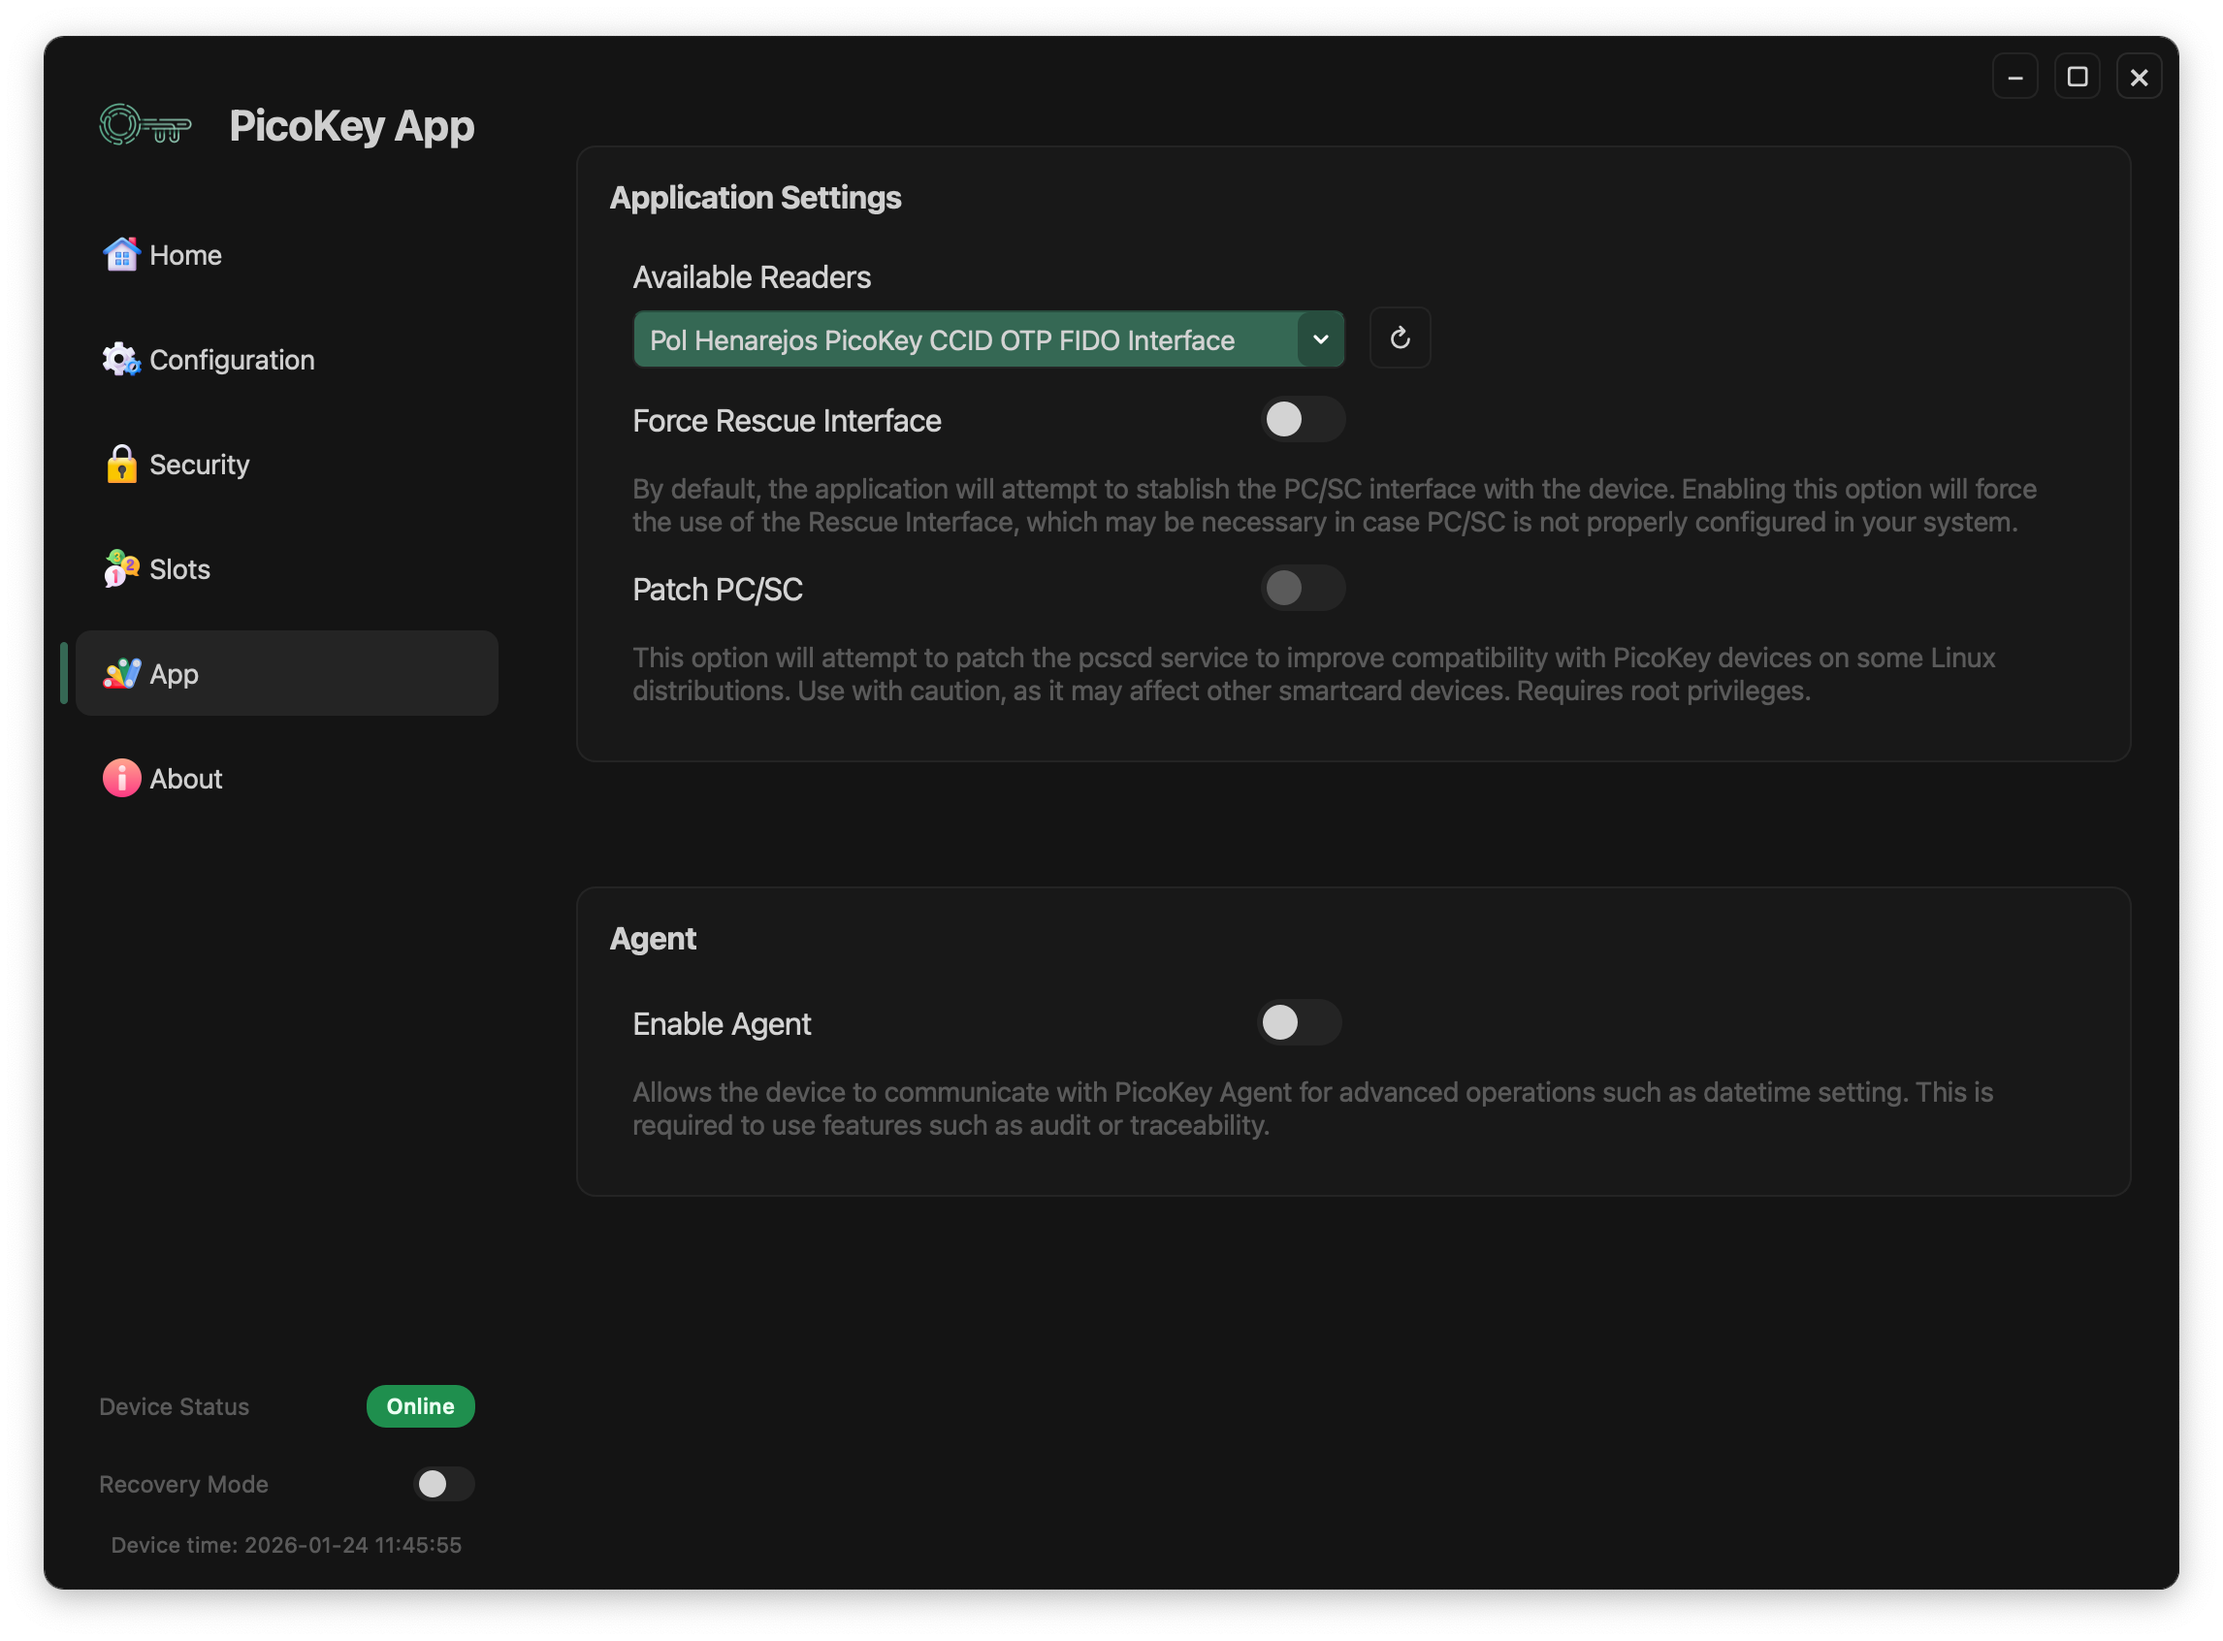
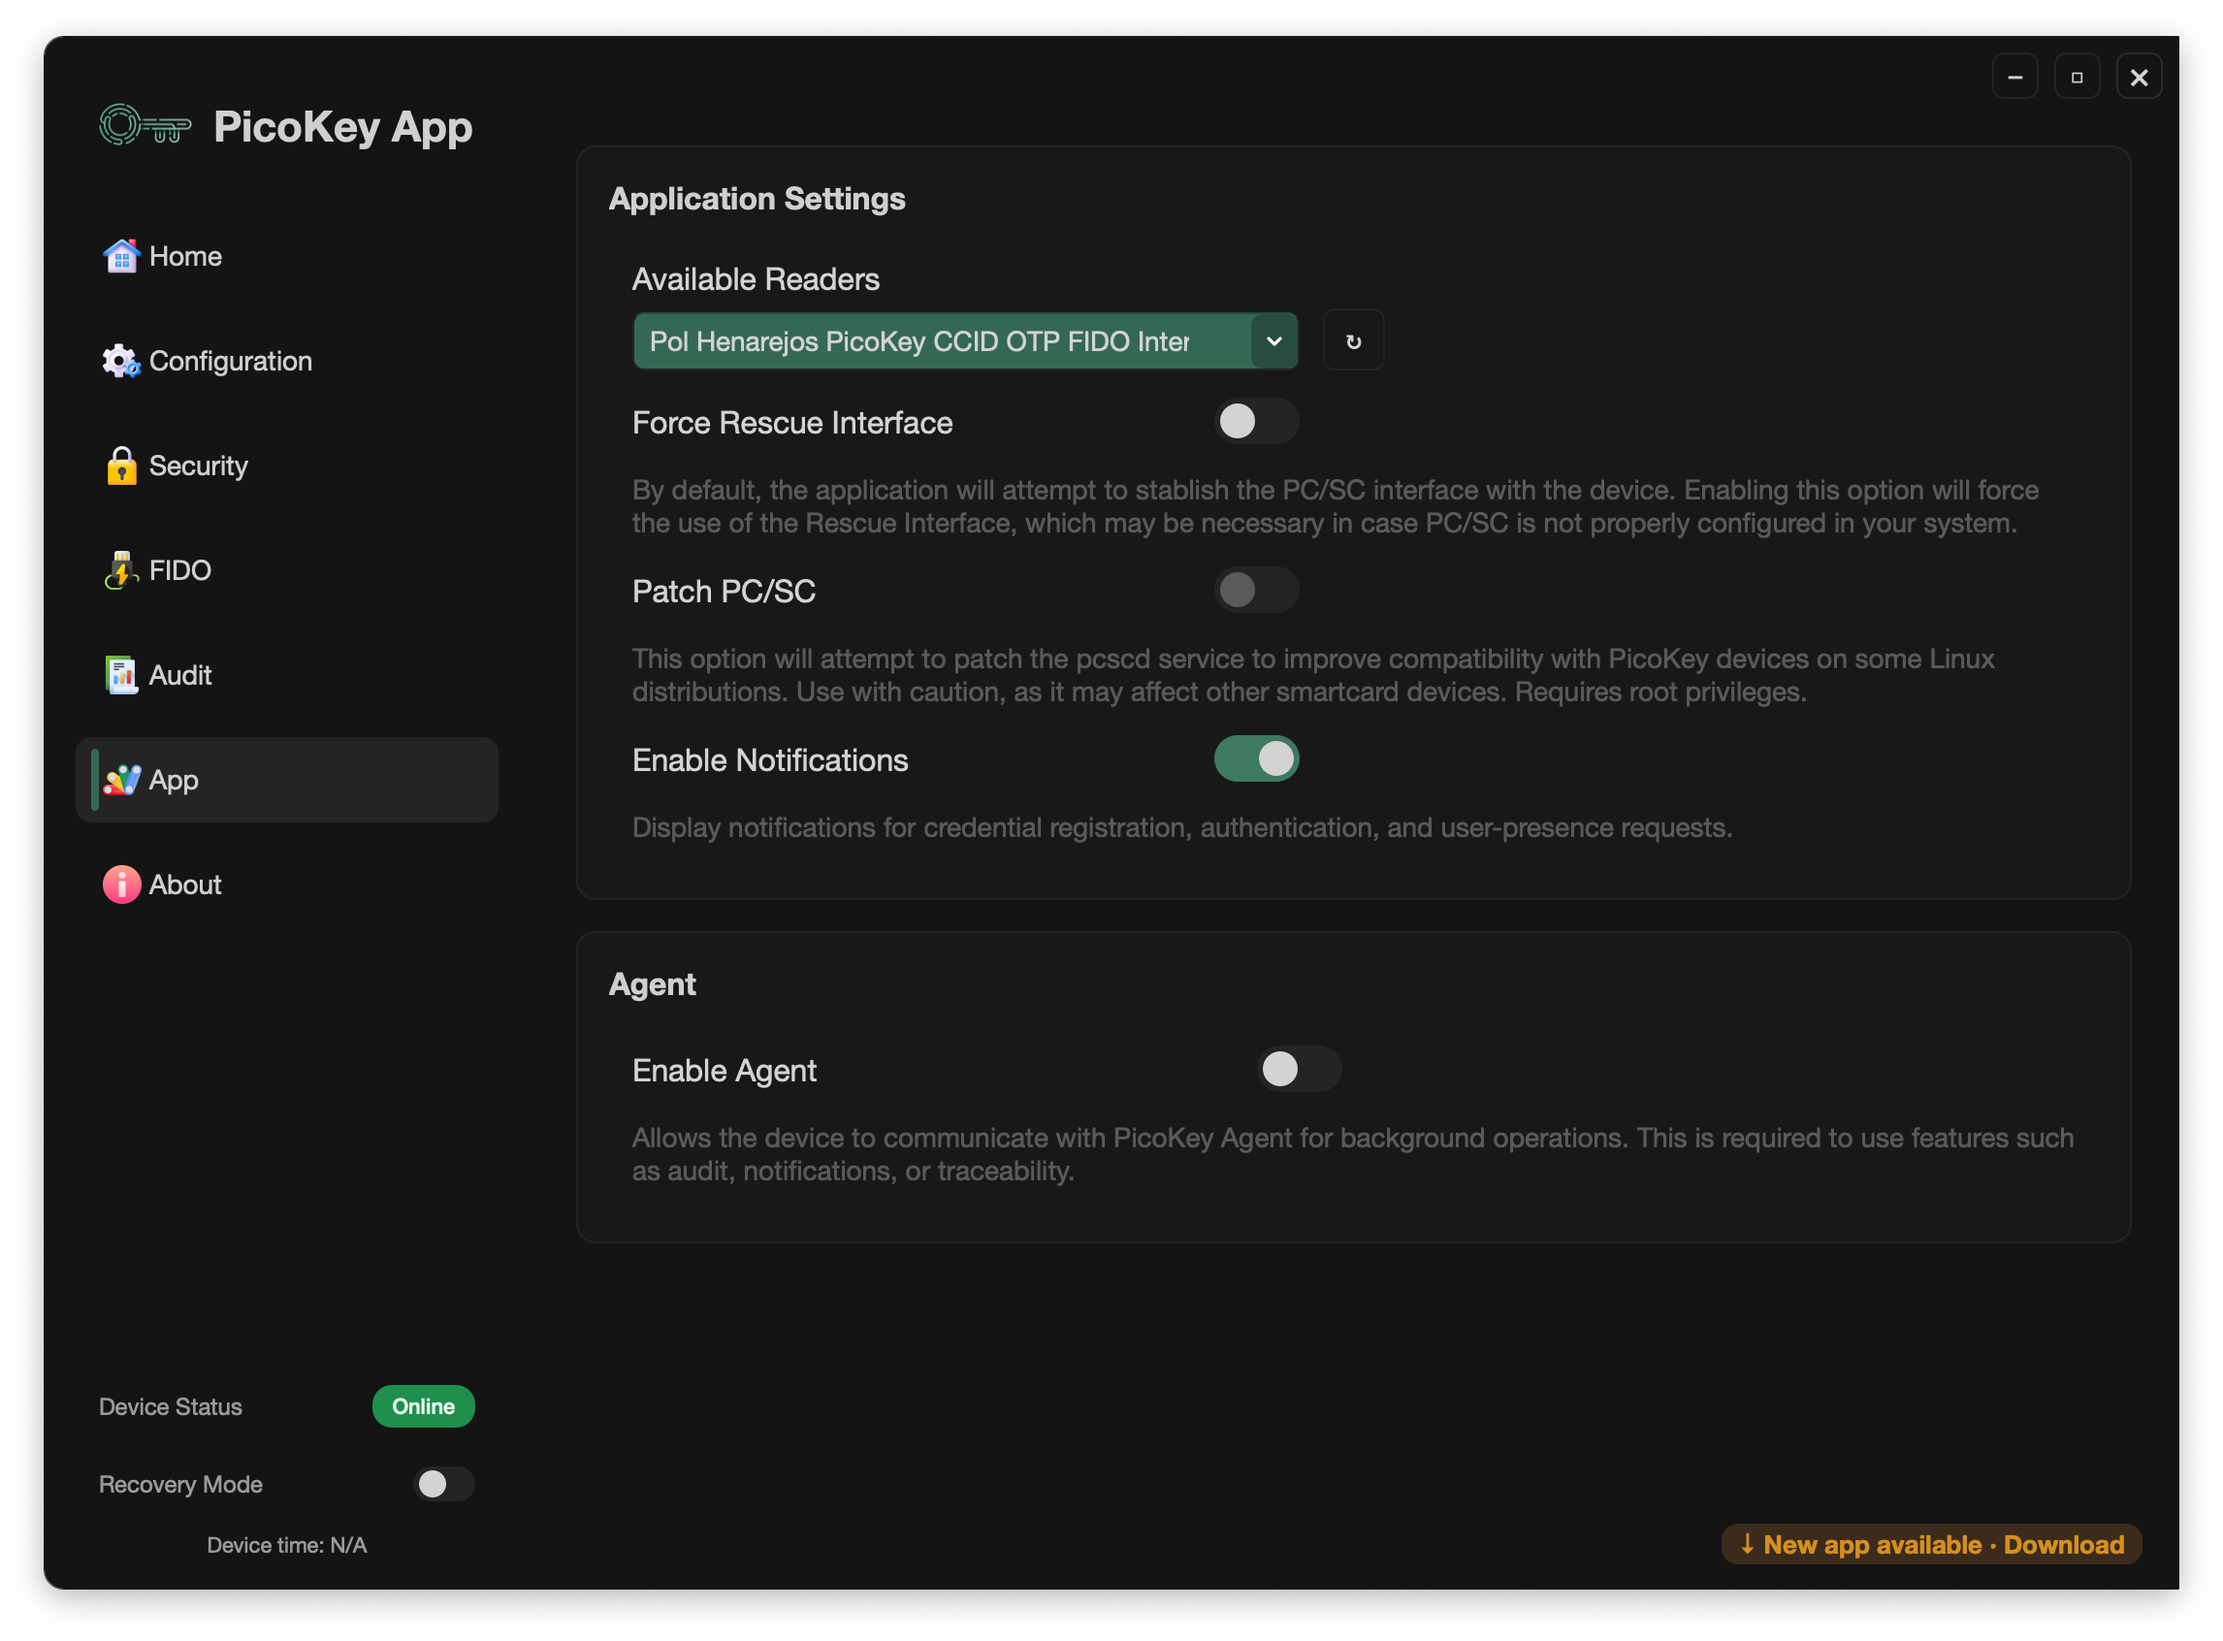
Add notifications

diff --git a/docs/picokeyapp/app-settings.md b/docs/picokeyapp/app-settings.md
@@ -50,6 +50,20 @@ When enabled:
 
 ---
 
+## Enable Notifications
+
+Enables or disables the display or notifications when an event is processed by the device. Known events:
+
+- A site is requesting your presence by touching the button.
+- A credential has been created.
+- An assertion for a specific credential has been succeed.
+
+!!! note
+    Notifications are sent to the Notification Center in macOS, Linux and Windows when PicoKey App is running. Enable
+    PicoKey Agent for background monitoring when the main app is closed.
+
+---
+
 ## Agent
 
 ### Enable Agent
@@ -65,6 +79,8 @@ When enabled:
   - Device time synchronization
 
   - Audit or traceability features
+
+  - Notification handling like user presence, credential creation or credential assertion.
 
 !!! note
     PicoKey Agent runs as a background service and must be installed separately.
